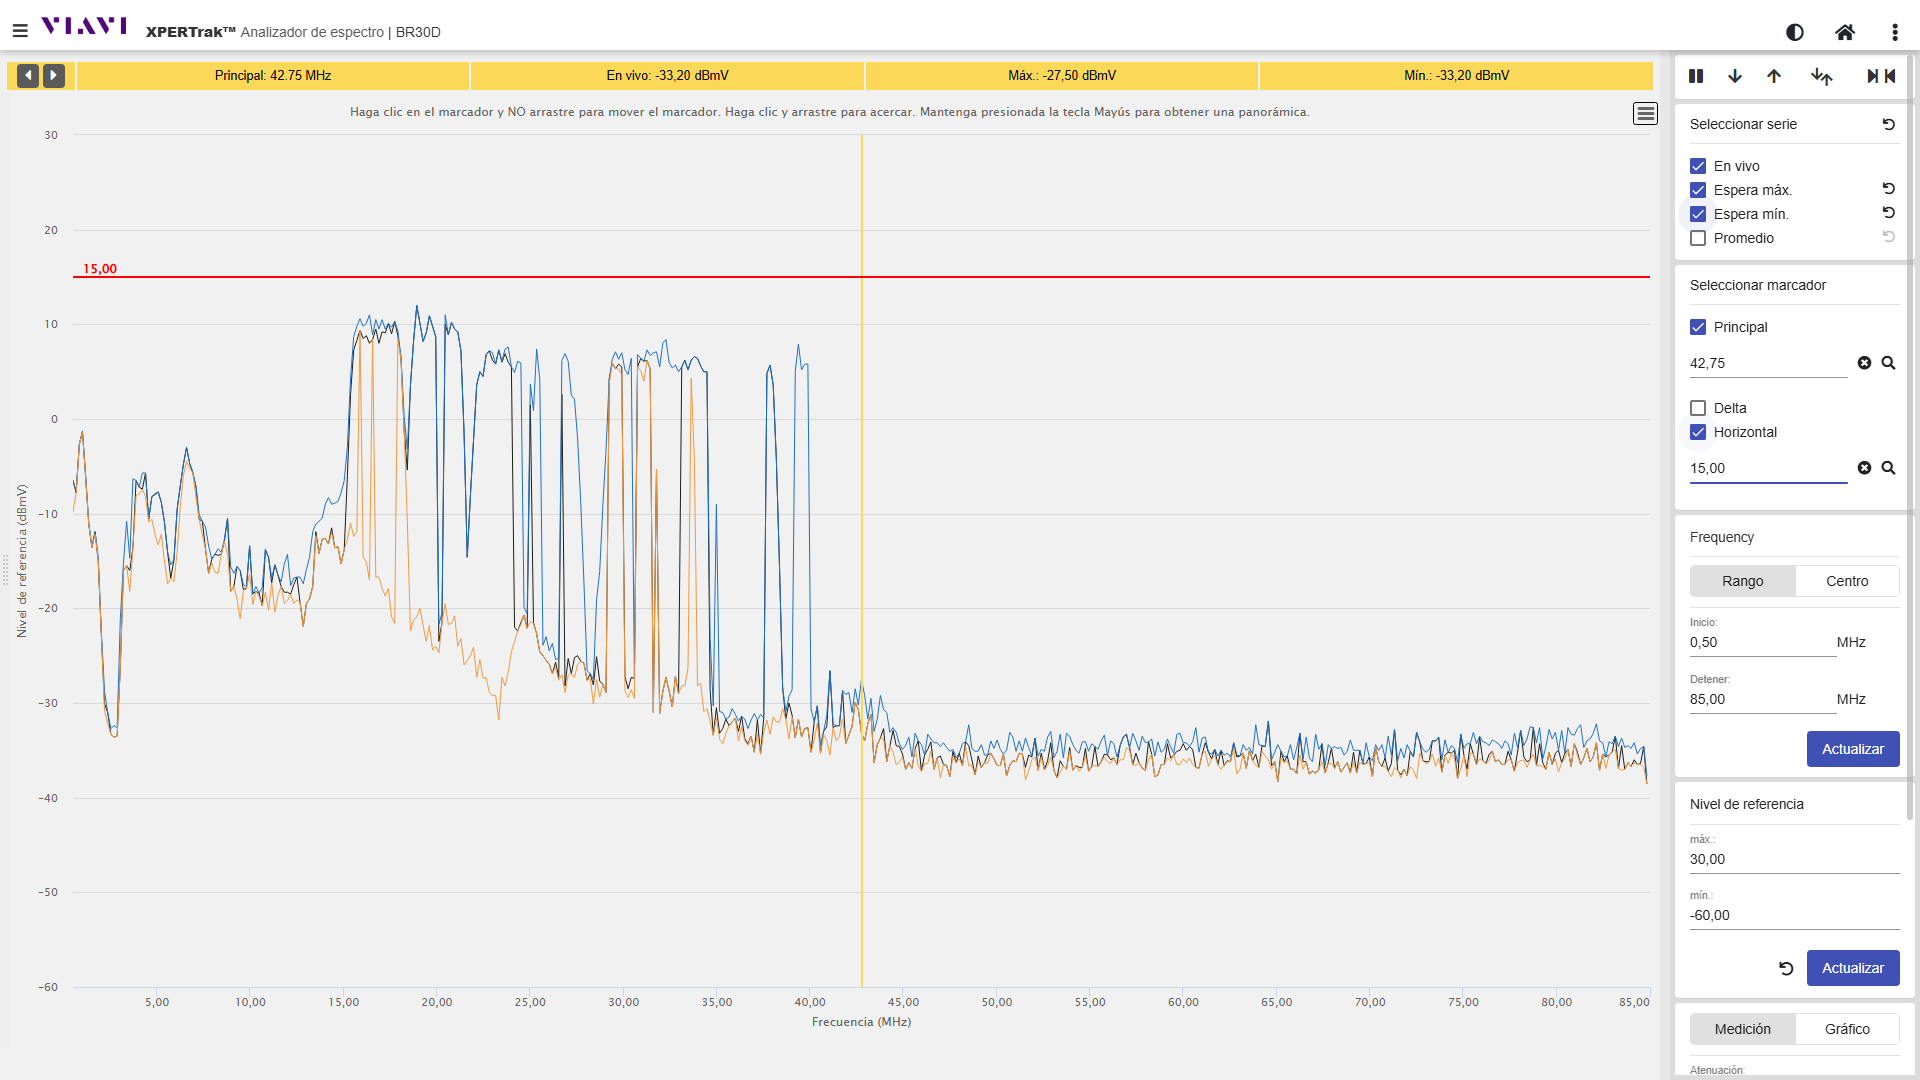
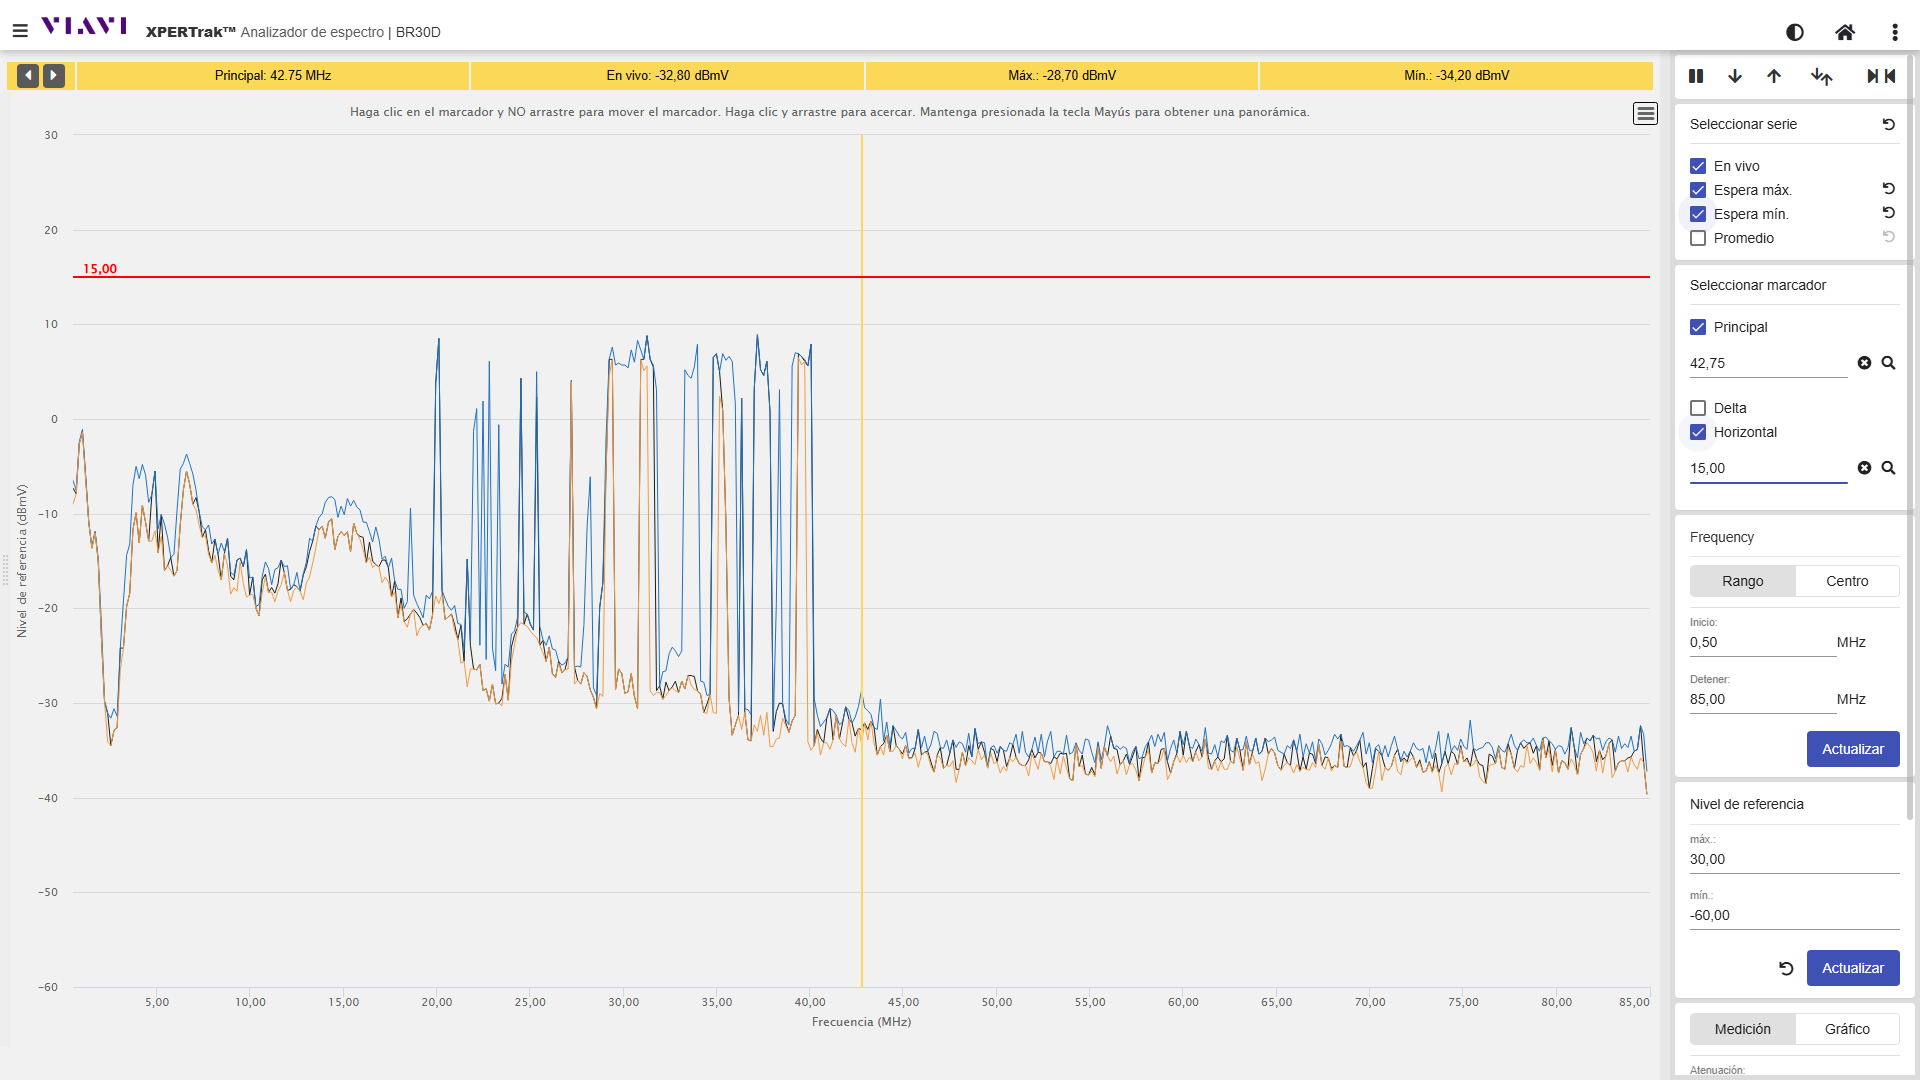
se eliminan console logs innecesarios

Changed region(s): [[0.0625, 0.275, 0.875, 0.7333], [0.0312, 0.6417, 0.0625, 0.6722]]

diff --git a/src/controllers/auth.controller.js b/src/controllers/auth.controller.js
@@ -70,12 +70,10 @@ export const login = async (req, res) => {
 
 export const verifyToken = async (req, res) => {
   const token = req.headers.authorization?.split(" ")[1];
-  console.log("Verificando token:", token);
   const tokenVerified = await pool.query(
     "SELECT token, active, user_id FROM sessions WHERE token = $1",
     [token]
   );
-  console.log("Verificando token:", token);
   // Si no se encuentra el token, o no es válido, se devuelve un error
   if (tokenVerified.rowCount === 0) {
     return res.status(401).json({ error: "Token inválido" });
@@ -90,8 +88,6 @@ export const verifyToken = async (req, res) => {
   const role = (await pool.query(
     "SELECT role FROM users WHERE id = $1",
     [session.user_id])).rows[0].role;
-  console.log("Token verificado:", session.token);
-  console.log("Role del usuario:", role);
   // Si el token es válido y activo, se devuelve el token y el rol del usuario
   return res.json({ 
     token: session.token, 

diff --git a/src/controllers/monitoring.controller.js b/src/controllers/monitoring.controller.js
@@ -106,7 +106,7 @@ export const getSpectrumGraph = async (req, res) => {
             error.status = 500;
             throw error;
         }
-        
+        console.log("URL de la gráfica:", resolve.url);
         return res.json({url: resolve.url});
     } catch(error) {
         res.status(error.status || 500).json({
